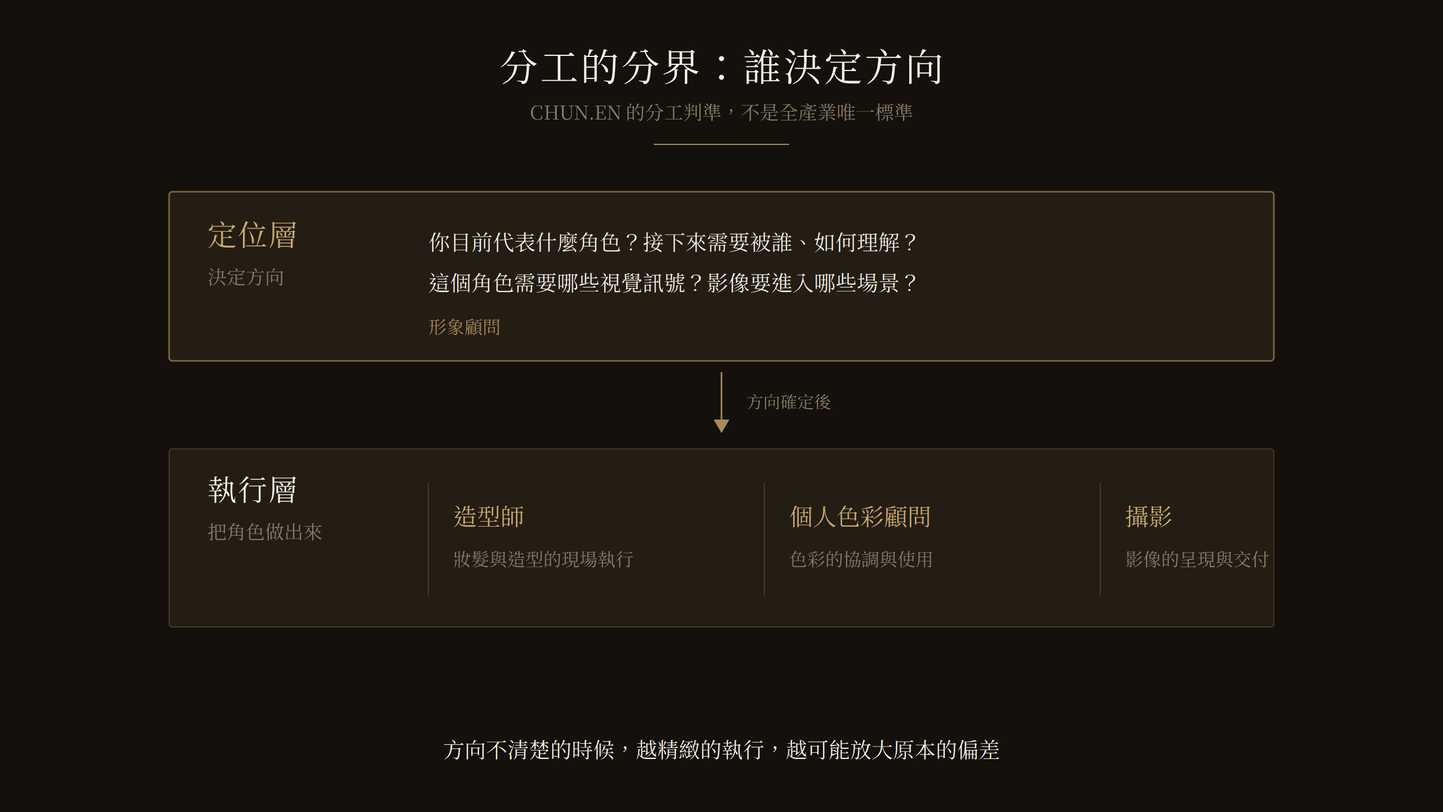
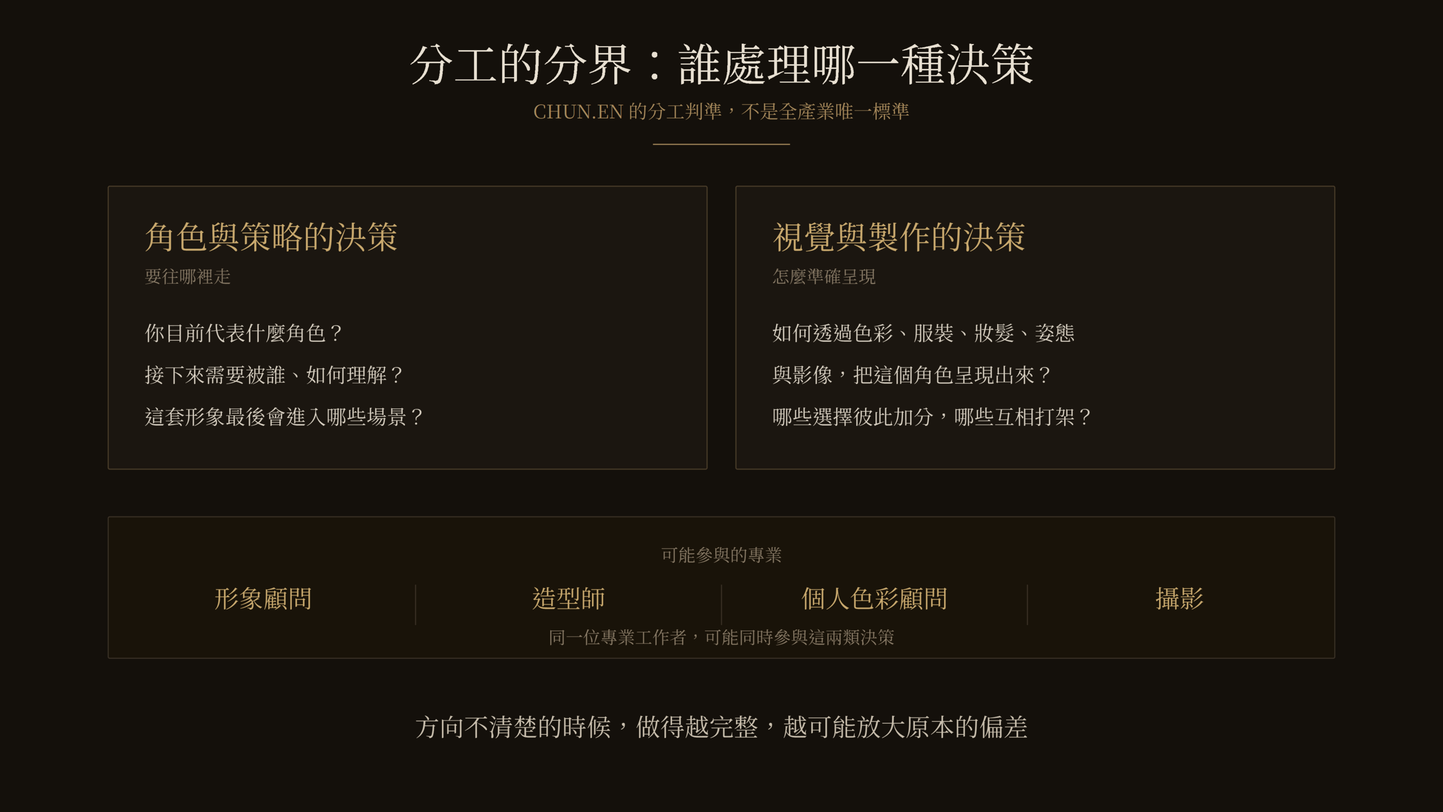
形象顧問三篇：依外部審閱校準職業定義與階級語言
三篇 8/3 上架前的定義一致性修正。採納外部審閱的必改項，但不採納會與
既有品牌定義衝突的建議。

what-is-an-image-consultant
- 主圖示意圖重畫：定位層→執行層的上下階層，改成「角色與策略的決策 /
  視覺與製作的決策」兩欄平權，並加註同一位專業工作者可能同時參與兩類。
  ALT 同步改寫（原句把造型師、色彩顧問與攝影一律寫成執行者）
- 造型師段落：保留台灣定義（職稱多半指向妝髮造型），改掉「把已經決定好
  的方向做出來」的降階語氣
- 分工判準段去掉定位層／執行層的階級framing
- FAQ 前三題改寫：第一題不再以「顧問處理方向、造型師處理執行」開場，
  第二題標明是 CHUN.EN 框架
- 收尾改成問讀者要解決哪一種問題，不再問「要找執行的人還是決定方向的人」

how-to-choose-image-consultant
- 「賣的是顧問還是攝影」全數改成服務重心與交付範圍（本文重點、內文、FAQ）
- 去掉「更上游」「單純攝影」「拍攝執行」
- 第二題補上「意見不一致時由誰統整」
- 第三題把應用建議的判準放回客戶需求
- 收尾「第一步是定位」改成「先釐清問題」
- title/og/twitter 補「該」字，與 H1 一致

image-consultant-pricing
- 比較報價從四件事改五件事，新增「額外費用」（服裝、交通、場地、超時、
  第三方支出是否另計）
- 品牌句去掉結果保證語氣（替你省下 → 協助你減少試錯、整理決策）
- FAQ「便宜」改「預算較低」；「顧問時間只佔一小部分」改成「實際諮詢或
  執行時間只是整個專案的一部分」
- 「接下來三年的角色」改「接下來一段職涯的角色」

三篇署名改為「創辦人暨品牌主理人・形象顧問」（原為妝髮造型師，與主題
不符）；維持全站雙專業署名制，不做全站統一。

image-consultant-vs-stylist（已公開）加一段限定：三段式分工是 CHUN.EN
的服務順序不是產業通則。why-prices-differ 不改版，改由新文的錨文字說明
兩篇是不同切法（按價位帶 vs 按計價方式）。

不採納：造型師改寫為含服裝選品採購（那是西方 stylist 定義，與 B.room
妝髮造型設計的服務定義衝突）、移除入行 FAQ（樞紐頁分流想入行者是刻意
設計）、H1 去句號與 title 尾綴（全站慣例）、全站統一作者頭銜。

新增 tools/diagram-src/ 保存示意圖 SVG 原始檔，之後可直接改。

diff --git a/journal/what-is-an-image-consultant.html b/journal/what-is-an-image-consultant.html
@@ -5,21 +5,21 @@
   <meta name="viewport" content="width=device-width, initial-scale=1.0, viewport-fit=cover" />
   <meta name="robots" content="noindex" /><!-- 草稿：審核後移除此行＋掛列表頁＋入 sitemap -->
   <title>形象顧問是什麼？與造型師、形象管理師、個人色彩顧問的差別｜CHUN.EN 觀點</title>
-  <meta name="description" content="形象顧問、造型師、形象管理師與個人色彩顧問有什麼差別？從定位、色彩、服裝、妝髮與執行層次，理解不同專業的工作範圍與適合情境。" />
+  <meta name="description" content="形象顧問、造型師、形象管理師與個人色彩顧問有什麼差別？從角色方向、色彩、服裝妝髮到服務方法與交付內容，理解不同專業適合處理哪些問題。" />
   <meta name="theme-color" content="#14100B" />
   <link rel="icon" href="/favicon.ico" sizes="48x48" />
   <link rel="icon" href="/favicon-32.png" type="image/png" sizes="32x32" />
   <link rel="apple-touch-icon" href="/apple-touch-icon.png" />
   <link rel="canonical" href="https://chunen.tw/journal/what-is-an-image-consultant.html" />
   <meta property="og:title" content="形象顧問是什麼？與造型師、形象管理師、個人色彩顧問的差別" />
-  <meta property="og:description" content="四個名稱在市場上高度重疊。從工作重心看分工：誰決定方向，誰負責執行。" />
+  <meta property="og:description" content="四個名稱在市場上高度重疊。從工作重心看分工：誰處理哪一種決策，交付的又是什麼。" />
   <meta property="og:image" content="https://chunen.tw/assets/gallery/journal/what-is-an-image-consultant-diagram-1400.png" />
   <meta property="og:url" content="https://chunen.tw/journal/what-is-an-image-consultant.html" />
   <meta property="og:type" content="article" />
   <meta property="og:locale" content="zh_TW" />
   <meta name="twitter:card" content="summary_large_image" />
   <meta name="twitter:title" content="形象顧問是什麼？與造型師、形象管理師、個人色彩顧問的差別" />
-  <meta name="twitter:description" content="四個名稱高度重疊，分界在誰決定方向。" />
+  <meta name="twitter:description" content="四個名稱高度重疊，分界在誰處理哪一種決策。" />
   <meta name="twitter:image" content="https://chunen.tw/assets/gallery/journal/what-is-an-image-consultant-diagram-1400.png" />
   <link rel="preconnect" href="https://fonts.googleapis.com" />
   <link rel="preconnect" href="https://fonts.gstatic.com" crossorigin />
@@ -79,7 +79,7 @@
 
     <div class="wrap article-wrap">
       <div class="jcard-media rv" style="aspect-ratio: 16/9; overflow: hidden; margin-bottom: clamp(2.5rem, 6vh, 4rem);">
-        <img src="../assets/gallery/journal/what-is-an-image-consultant-diagram-1400.png" alt="定位層與執行層的分工：形象顧問決定方向，造型師、色彩顧問與攝影負責執行" style="width:100%;height:100%;object-fit:cover;" />
+        <img src="../assets/gallery/journal/what-is-an-image-consultant-diagram-1400.png" alt="形象服務的兩類決策：角色與策略決策、視覺與製作決策，以及形象顧問、造型師、個人色彩顧問與攝影的工作重點" style="width:100%;height:100%;object-fit:cover;" />
       </div>
 
       <div class="keypoints rv">
@@ -96,8 +96,8 @@
         <p>於是就出現這種狀況：你找了一位形象顧問，對方帶你整理衣櫥與採購；找了另一位，得到的是個人色彩與風格分析；找第三位，對方先問的卻是你的職業、客戶與下一階段。三個人都不一定做錯，只是他們用了相近的職稱，處理的卻是不同層次。</p>
         <p><strong>這些名稱目前沒有單一、通用的工作邊界。</strong>以下不是要替整個產業下定義，而是依照主要工作重心，整理一套比較容易理解的分工方式。</p>
 
-        <h2>造型師：<em>負責造型的執行</em></h2>
-        <p>造型師通常以一場活動、一次拍攝或一段公開行程為核心，處理的是妝髮與造型的現場執行，讓人物在特定情境裡成立。服裝的挑選與採購通常不在這個環節裡，工作核心是把已經決定好的方向做出來。</p>
+        <h2>造型師：<em>讓造型在現場成立</em></h2>
+        <p>造型師通常以一場活動、一次拍攝或一段公開行程為核心，處理妝髮與造型的現場呈現，讓人物在特定情境裡成立。在台灣，這個職稱多半指向妝髮造型；服裝的挑選與採購常屬於另一個環節，也有人一起承接。所以判斷服務範圍時，要確認對方負責的是造型建議、現場執行，還是連服裝規劃一起。</p>
 
         <h2>個人色彩顧問：<em>處理色彩的協調與使用</em></h2>
         <p>個人色彩分析協助你理解哪些色相、明度與彩度更能與膚色、五官及整體條件協調，主要回答的是「哪些顏色更適合你」。至於某個顏色在特定職業、品牌或場合裡該不該出現，還需要結合角色、受眾與情境判斷。色彩顧問先處理配不配，角色定位進一步處理此刻該不該。這個工具的能與不能，〈<a href="personal-color-analysis-limits.html">個人色彩診斷可信嗎</a>〉談得更完整。</p>
@@ -107,33 +107,33 @@
 
         <h2>形象顧問：在 CHUN.EN 的框架裡，<em>負責統整方向</em></h2>
         <p>不同形象顧問的工作範圍可能不同。在 CHUN.EN 的服務框架裡，形象顧問首先處理方向：你目前代表什麼角色、需要被誰看見、對方應該如何理解你、這個角色需要哪些視覺訊號、影像最後要進入哪些商業場景。</p>
-        <p>方向確定後，色彩、服裝、妝髮與影像才有一致的決策基準。顧問不一定親自執行每個環節，但要確保不同專業最後指向同一個角色。</p>
+        <p>方向確定後，色彩、服裝、妝髮與影像才有一致的決策基準。顧問不一定親自完成每個環節，也不會取代造型、色彩與攝影各自的專業判斷；他負責的是統整需求、協調不同專業，並確認最後的呈現指向同一個角色。</p>
 
         <h2>形象管理，<em>不只是一個職稱</em></h2>
         <p>形象管理可以理解成一個持續的過程：在不同角色、場合與公開接觸點中，讓一個人的外在呈現、溝通方式與專業位置保持一致。</p>
-        <p>造型師、個人色彩顧問與形象顧問都可能參與形象管理，只是處理的層次不同。所以比起先問哪一個職稱最厲害，更實際的問題是：你現在需要被處理的，是色彩、造型、執行，還是整體方向。</p>
+        <p>造型師、個人色彩顧問與形象顧問都可能參與形象管理，處理的問題不同。所以比起先問哪一個職稱最厲害，更實際的問題是：你現在需要被處理的，是色彩、造型、現場呈現，還是整體方向。</p>
 
-        <h2>CHUN.EN 的分工判準：<em>誰決定方向</em></h2>
-        <p>真正的分工不是誰比較厲害，是誰在回答哪一層問題。</p>
-        <p>定位層問的是：你目前代表什麼角色、接下來需要被誰如何理解。執行層問的是：如何透過色彩、服裝、妝髮、姿態與影像，把這個角色呈現出來。</p>
-        <p>執行技術可以非常高明。但如果方向仍然模糊，再完整的執行也可能只是把一個尚未釐清的目標呈現得更精緻。這一層的完整討論，在〈<a href="image-consultant-vs-stylist.html">形象顧問、造型師、攝影師差在哪</a>〉。</p>
-        <blockquote>方向不清楚的時候，越精緻的執行，越可能放大原本的偏差。</blockquote>
+        <h2>CHUN.EN 的分工判準：<em>誰處理哪一種決策</em></h2>
+        <p>真正的分工不是誰比較厲害，是誰負責哪一種決策。</p>
+        <p>角色與策略的決策處理的是：你目前代表什麼角色、接下來需要被誰如何理解、這套形象最後會進入哪些場景。視覺與製作的決策處理的是：如何透過色彩、服裝、妝髮、姿態與影像，把這個角色準確呈現出來。同一位專業工作者，可能同時參與這兩類決策。</p>
+        <p>所以重要的不是把人固定歸進哪一類，而是確認整個專案裡誰負責統整需求、誰提供各自領域的專業判斷，以及最後如何形成一致的結果。這三個角色在一次拍攝專案裡怎麼合作，〈<a href="image-consultant-vs-stylist.html">形象顧問、造型師、攝影師差在哪</a>〉寫的是 CHUN.EN 自己的服務順序，可以接著看。</p>
+        <blockquote>方向不清楚的時候，做得越完整，越可能放大原本的偏差。</blockquote>
 
         <h2>你現在<em>需要哪一種專業</em></h2>
         <p>明天有一場重要活動，需要妝髮與造型在現場完整呈現，找造型師。</p>
         <p>想了解哪些色彩與自身條件更協調，找個人色彩顧問。</p>
         <p>需要長期整理衣櫥、儀態與日常呈現，看形象管理類服務的實際範圍。</p>
-        <p>如果每次出場都要重新決定一次，或者服裝、妝髮與照片都完成了，成果卻仍然不像同一個角色，那要優先處理的是更上游的定位與統整。決定要找誰之後，〈<a href="how-to-choose-image-consultant.html">決定之前先問的五個問題</a>〉與〈<a href="image-consultant-pricing.html">形象顧問收費怎麼算</a>〉可以接著看。</p>
+        <p>如果每次出場都要重新決定一次，或者服裝、妝髮與照片都完成了，成果卻仍然不像同一個角色，那要優先處理的，是角色與方向的統整。決定要找誰之後，〈<a href="how-to-choose-image-consultant.html">決定之前先問的五個問題</a>〉與〈<a href="image-consultant-pricing.html">形象顧問收費怎麼算</a>〉可以接著看。</p>
 
         <h2>在決定要找誰之前，<em>先問自己一題</em></h2>
-        <p>你現在缺的，是把事情執行好的人，還是先替你決定方向的人？</p>
-        <p>問題不同，適合的專業就不同。</p>
+        <p>你現在要解決的，是一個明確的色彩、服裝或造型問題，還是一個需要重新統整的角色與方向問題？</p>
+        <p>問題不同，需要的專業與合作方式就不同。</p>
 
         <h2>常見<em>問題</em></h2>
         <div class="faq">
-          <details><summary>形象顧問是什麼？跟造型師差在哪？<span class="mark">+</span></summary><div class="a">形象顧問處理方向，造型師處理執行。造型師通常以一場活動或一次拍攝為核心，負責妝髮與造型的現場執行；形象顧問處理更上游的角色定位，釐清你要被誰看見、如何被理解，以及色彩、服裝、妝髮與影像該共同傳達什麼訊號。要注意的是這些職稱在市場上高度重疊，不能只看名稱判斷服務範圍，還是要看對方用什麼方法、交付什麼。</div></details>
-          <details><summary>形象管理跟形象顧問是同一件事嗎？<span class="mark">+</span></summary><div class="a">形象管理是一個持續的過程，指的是在不同角色、場合與公開接觸點中，讓外在呈現、溝通方式與專業位置保持一致。造型師、個人色彩顧問與形象顧問都可能參與形象管理，只是處理的層次不同。形象顧問是其中負責統整方向的角色，不等於形象管理本身。</div></details>
-          <details><summary>個人色彩顧問跟形象顧問要選哪一個？<span class="mark">+</span></summary><div class="a">看你要解決的問題。想知道哪些顏色與自身條件更協調，找個人色彩顧問；如果每次出場都要重新決定一次，或者服裝、妝髮與照片都完成了成果卻仍然不像同一個角色，那要處理的是更上游的定位與統整。色彩回答配不配，定位回答此刻該不該。</div></details>
+          <details><summary>形象顧問是什麼？跟造型師差在哪？<span class="mark">+</span></summary><div class="a">兩者的工作範圍可能重疊，差別通常在主要任務與服務範圍。造型師多半以一場活動或一次拍攝為核心，透過妝髮與造型讓人物在現場成立；形象顧問則從角色、受眾、職業情境與長期使用開始，協助統整色彩、服裝、妝髮與影像該共同傳達什麼訊號。這些職稱在市場上高度重疊，不能只看名稱判斷服務範圍，還是要看對方實際處理哪些問題、用什麼方法、最後交付什麼。</div></details>
+          <details><summary>形象管理跟形象顧問是同一件事嗎？<span class="mark">+</span></summary><div class="a">形象管理是一個持續的過程，指的是在不同角色、場合與公開接觸點中，讓外在呈現、溝通方式與專業位置保持一致。造型師、個人色彩顧問、形象顧問與其他專業都可能參與其中。在 CHUN.EN 的框架裡，形象顧問主要負責角色方向與跨專業統整；但市場上職稱的使用高度重疊，仍要回到個別服務內容判斷。</div></details>
+          <details><summary>個人色彩顧問跟形象顧問要選哪一個？<span class="mark">+</span></summary><div class="a">看你要解決的問題。想知道哪些顏色與自身條件更協調，找個人色彩顧問；如果每次出場都要重新決定一次，或者服裝、妝髮與照片都完成了成果卻仍然不像同一個角色，那要處理的是角色與方向的統整。兩者也可以搭配使用：色彩回答配不配，定位回答此刻該不該。</div></details>
           <details><summary>我想入行做形象顧問，該從哪裡開始？<span class="mark">+</span></summary><div class="a">這份工作的難處通常不在審美，而在能不能問對問題。看得懂衣服的人很多，聽得出一個人真正想被怎麼看待的人比較少，而後者才是這份工作的核心能力。市場上的課程與認證體系不少，但職稱不等於服務深度，實際能處理到哪一層才是關鍵。</div></details>
         </div>
 
@@ -146,7 +146,7 @@
         </picture>
         <div>
           <p class="ac-name"><a href="../author/zoey-wu.html">吳惇恩<em>Zoey Wu</em></a></p>
-          <p class="ac-role">CHUN.EN 創辦人暨品牌主理人・妝髮造型師</p>
+          <p class="ac-role">CHUN.EN 創辦人暨品牌主理人・形象顧問</p>
           <p class="ac-bio">服裝設計師出身，歷經台灣、上海與廣州共 10 年設計工作，其後投入造型領域 14 年。以商業視覺定位為核心，統整服裝、妝髮與影像，協助專業工作者與企業領導者，建立一致、清楚且有系統的專業形象。</p>
         </div>
       </div>
@@ -184,7 +184,7 @@
     "@context": "https://schema.org",
     "@type": "Article",
     "headline": "形象顧問是什麼？與造型師、形象管理師、個人色彩顧問的差別",
-    "description": "形象顧問、造型師、形象管理師與個人色彩顧問的工作重心差異，以及形象管理作為持續過程的定義；分界在定位層與執行層。",
+    "description": "形象顧問、造型師、形象管理師與個人色彩顧問的工作重心差異，以及形象管理作為持續過程的定義；分界在誰處理哪一種決策。",
     "image": "https://chunen.tw/assets/gallery/journal/what-is-an-image-consultant-diagram-1400.png",
     "author": {"@type": "Person", "@id": "https://chunen.tw/author/zoey-wu.html#zoey", "name": "吳惇恩", "alternateName": "Zoey Wu", "jobTitle": "Founder & Brand Director", "image": "https://chunen.tw/assets/images/zoey-author-640.jpg", "url": "https://chunen.tw/author/zoey-wu.html"},
     "publisher": {"@type": "Organization", "name": "CHUN.EN 形象美學", "logo": {"@type": "ImageObject", "url": "https://chunen.tw/icon-512.png"}},
@@ -201,9 +201,9 @@
     "@context": "https://schema.org",
     "@type": "FAQPage",
     "mainEntity": [
-      {"@type": "Question", "name": "形象顧問是什麼？跟造型師差在哪？", "acceptedAnswer": {"@type": "Answer", "text": "形象顧問處理方向，造型師處理執行。造型師通常以一場活動或一次拍攝為核心，負責妝髮與造型的現場執行；形象顧問處理更上游的角色定位，釐清你要被誰看見、如何被理解，以及色彩、服裝、妝髮與影像該共同傳達什麼訊號。要注意的是這些職稱在市場上高度重疊，不能只看名稱判斷服務範圍，還是要看對方用什麼方法、交付什麼。"}},
-      {"@type": "Question", "name": "形象管理跟形象顧問是同一件事嗎？", "acceptedAnswer": {"@type": "Answer", "text": "形象管理是一個持續的過程，指的是在不同角色、場合與公開接觸點中，讓外在呈現、溝通方式與專業位置保持一致。造型師、個人色彩顧問與形象顧問都可能參與形象管理，只是處理的層次不同。形象顧問是其中負責統整方向的角色，不等於形象管理本身。"}},
-      {"@type": "Question", "name": "個人色彩顧問跟形象顧問要選哪一個？", "acceptedAnswer": {"@type": "Answer", "text": "看你要解決的問題。想知道哪些顏色與自身條件更協調，找個人色彩顧問；如果每次出場都要重新決定一次，或者服裝、妝髮與照片都完成了成果卻仍然不像同一個角色，那要處理的是更上游的定位與統整。色彩回答配不配，定位回答此刻該不該。"}},
+      {"@type": "Question", "name": "形象顧問是什麼？跟造型師差在哪？", "acceptedAnswer": {"@type": "Answer", "text": "兩者的工作範圍可能重疊，差別通常在主要任務與服務範圍。造型師多半以一場活動或一次拍攝為核心，透過妝髮與造型讓人物在現場成立；形象顧問則從角色、受眾、職業情境與長期使用開始，協助統整色彩、服裝、妝髮與影像該共同傳達什麼訊號。這些職稱在市場上高度重疊，不能只看名稱判斷服務範圍，還是要看對方實際處理哪些問題、用什麼方法、最後交付什麼。"}},
+      {"@type": "Question", "name": "形象管理跟形象顧問是同一件事嗎？", "acceptedAnswer": {"@type": "Answer", "text": "形象管理是一個持續的過程，指的是在不同角色、場合與公開接觸點中，讓外在呈現、溝通方式與專業位置保持一致。造型師、個人色彩顧問、形象顧問與其他專業都可能參與其中。在 CHUN.EN 的框架裡，形象顧問主要負責角色方向與跨專業統整；但市場上職稱的使用高度重疊，仍要回到個別服務內容判斷。"}},
+      {"@type": "Question", "name": "個人色彩顧問跟形象顧問要選哪一個？", "acceptedAnswer": {"@type": "Answer", "text": "看你要解決的問題。想知道哪些顏色與自身條件更協調，找個人色彩顧問；如果每次出場都要重新決定一次，或者服裝、妝髮與照片都完成了成果卻仍然不像同一個角色，那要處理的是角色與方向的統整。兩者也可以搭配使用：色彩回答配不配，定位回答此刻該不該。"}},
       {"@type": "Question", "name": "我想入行做形象顧問，該從哪裡開始？", "acceptedAnswer": {"@type": "Answer", "text": "這份工作的難處通常不在審美，而在能不能問對問題。看得懂衣服的人很多，聽得出一個人真正想被怎麼看待的人比較少，而後者才是這份工作的核心能力。市場上的課程與認證體系不少，但職稱不等於服務深度，實際能處理到哪一層才是關鍵。"}}
     ]
   }

diff --git a/journal/how-to-choose-image-consultant.html b/journal/how-to-choose-image-consultant.html
@@ -4,21 +4,21 @@
   <meta charset="UTF-8" />
   <meta name="viewport" content="width=device-width, initial-scale=1.0, viewport-fit=cover" />
   <meta name="robots" content="noindex" /><!-- 草稿：審核後移除此行＋掛列表頁＋入 sitemap -->
-  <title>形象顧問推薦看完了，還是不知道找誰？決定之前先問這五個問題｜CHUN.EN 觀點</title>
+  <title>形象顧問推薦看完了，還是不知道該找誰？決定之前先問這五個問題｜CHUN.EN 觀點</title>
   <meta name="description" content="搜尋形象顧問推薦，卻不知道該找誰？從諮詢時先問什麼、服務分工、交付後的使用邏輯、案例到定位，整理決定之前該問的五個問題，幫助你找到真正適合的形象顧問。" />
   <meta name="theme-color" content="#14100B" />
   <link rel="icon" href="/favicon.ico" sizes="48x48" />
   <link rel="icon" href="/favicon-32.png" type="image/png" sizes="32x32" />
   <link rel="apple-touch-icon" href="/apple-touch-icon.png" />
   <link rel="canonical" href="https://chunen.tw/journal/how-to-choose-image-consultant.html" />
-  <meta property="og:title" content="形象顧問推薦看完了，還是不知道找誰？決定之前先問這五個問題" />
+  <meta property="og:title" content="形象顧問推薦看完了，還是不知道該找誰？決定之前先問這五個問題" />
   <meta property="og:description" content="推薦名單幫你找到候選人，問題才幫你判斷誰適合你。五個決定之前該問的問題。" />
   <meta property="og:image" content="https://chunen.tw/assets/gallery/journal/how-to-choose-image-consultant-diagram-1400.png" />
   <meta property="og:url" content="https://chunen.tw/journal/how-to-choose-image-consultant.html" />
   <meta property="og:type" content="article" />
   <meta property="og:locale" content="zh_TW" />
   <meta name="twitter:card" content="summary_large_image" />
-  <meta name="twitter:title" content="形象顧問推薦看完了，還是不知道找誰？決定之前先問這五個問題" />
+  <meta name="twitter:title" content="形象顧問推薦看完了，還是不知道該找誰？決定之前先問這五個問題" />
   <meta name="twitter:description" content="推薦名單找到候選人，五個問題判斷誰適合你。" />
   <meta name="twitter:image" content="https://chunen.tw/assets/gallery/journal/how-to-choose-image-consultant-diagram-1400.png" />
   <link rel="preconnect" href="https://fonts.googleapis.com" />
@@ -86,7 +86,7 @@
         <p class="kp-t">In This Article · 本文重點</p>
         <ul>
           <li>形象顧問推薦怎麼看</li>
-          <li>怎麼判斷對方賣的是顧問還是攝影</li>
+          <li>怎麼判斷服務重心與交付範圍</li>
           <li>看案例的時候該看什麼</li>
         </ul>
       </div>
@@ -97,13 +97,14 @@
         <p>因為這件事很難只用名次比較。同樣使用這個職稱，有人以服裝與色彩為主，有人從角色定位開始，也有人提供的是造型與攝影的整合。<strong>推薦名單可以替你找到候選人，卻不能替你判斷哪一種服務適合你。</strong>名單解決不了的問題，得靠問題來判斷。</p>
 
         <h2>第一，諮詢時<em>形象顧問先問了什麼</em></h2>
-        <p>有人先問你喜歡什麼風格，有人先問你的職業、受眾、使用場合與下一階段。問題沒有標準順序，但對方先了解什麼，通常會透露他準備處理的是外在選擇，還是更上游的角色問題。</p>
+        <p>有人先問你喜歡什麼風格，有人先問你的職業、受眾、使用場合與下一階段。問題沒有標準順序，但對方先了解什麼，通常會透露他準備處理的是眼前的外在選擇，還是背後的角色與方向問題。</p>
 
         <h2>第二，服務範圍與<em>責任分工怎麼切</em></h2>
-        <p>服裝、採購、妝髮、攝影、場地與現場執行，哪些由顧問負責，哪些由合作團隊執行，哪些要你自己準備。同樣寫著「形象規劃」，有人只給方向，有人會陪同落地，也有人統整完整團隊。先確認責任範圍，才知道報價真正包含什麼。</p>
+        <p>服裝、採購、妝髮、攝影、場地與現場執行，哪些由顧問負責，哪些由合作團隊執行，哪些要你自己準備。也要確認不同專業的意見不一致時，由誰負責統整、由誰做最後的方向決定。</p>
+        <p>同樣寫著「形象規劃」，有人只給方向，有人會陪同落地，也有人統整完整團隊。先確認責任範圍，才知道報價真正包含什麼。</p>
 
         <h2>第三，交付之後<em>有沒有使用邏輯</em></h2>
-        <p>一組照片完成後，哪張適合官網、哪張提供媒體、哪張用於 LinkedIn、簡報或社群頭像，有沒有清楚的建議。照片交付不等於影像開始發揮作用，沒有人協助整理用途，再完整的素材也可能停在雲端硬碟裡。</p>
+        <p>一組照片完成後，哪張適合官網、哪張提供媒體、哪張用於 LinkedIn、簡報或社群頭像，有沒有清楚的建議。如果你的需求涵蓋官網、媒體、LinkedIn、簡報與社群，就要確認交付之後有沒有使用邏輯。照片交付不等於影像開始發揮作用，缺少用途整理時，再完整的素材也可能停在雲端硬碟裡。</p>
 
         <h2>第四，案例解決的問題<em>跟我像不像</em></h2>
         <p>不要只看案例是不是同一個職業。兩位律師的市場位置與客群可能完全不同，醫師與理專反而常面對相似的專業可信度問題。更值得看的是：對方原本遇到什麼問題、顧問怎麼判斷、最後用了什麼策略、成果放進哪些場景。好的案例不只展示完成照，也讓你看懂從問題到決策的過程。</p>
@@ -113,18 +114,18 @@
 
         <h2>一個反過來的<em>判斷基準</em></h2>
         <p>比起他怎麼回答，更該看的是：他在推薦方案之前，先問了你什麼。</p>
-        <p>如果對方先理解你的職業、受眾、使用情境與目前的卡點，再決定服務範圍，通常表示他處理的不只是執行，也包含前期判斷。如果需求還沒被釐清，就直接以棚景、服裝套數、精修張數與價格分類，那服務重心可能更偏向拍攝交付。</p>
-        <p>兩種服務都可以買。真正重要的是，不要把拍攝執行當成完整定位，也不要用單純攝影的交付範圍，去期待顧問型服務的結果。三種專業各自處理哪一層，〈<a href="what-is-an-image-consultant.html">形象顧問是什麼？與造型師、形象管理師、個人色彩顧問的差別</a>〉有完整的拆解。</p>
+        <p>如果對方先理解你的職業、受眾、使用情境與目前的卡點，再決定服務範圍，通常代表前期的顧問規劃占比較高。如果服務主要以棚景、服裝套數、拍攝時間、精修張數與價格分類，重心就比較接近影像製作與檔案交付。</p>
+        <p>兩種服務都可以買，也可能出現在同一個方案裡。真正重要的是先確認自己買到的是哪一種範圍，不要用其中一種服務的交付內容，去期待另一種服務才承諾的成果。這幾種專業各自處理哪些問題，〈<a href="what-is-an-image-consultant.html">形象顧問是什麼？與造型師、形象管理師、個人色彩顧問的差別</a>〉有完整的拆解。</p>
         <blockquote>推薦名單幫你找到候選人，問題才幫你判斷誰適合你。</blockquote>
 
         <h2>問完之後，<em>你可能會發現一件事</em></h2>
-        <p>把這五題記下來。問完三家之後，你可能會發現，真正難以決定的不是他們，而是自己還沒完全想清楚要解決什麼。</p>
-        <p>那不是壞事。它通常代表，你需要的第一步是定位，而不是急著預約。至於不同服務的價格為什麼落差這麼大，〈<a href="image-consultant-pricing.html">形象顧問收費怎麼算</a>〉把三種計價邏輯攤開來談。</p>
+        <p>把這五題記下來。問完幾位候選人之後，你可能會發現，真正難以決定的不是他們，而是自己還沒完全想清楚要解決什麼。</p>
+        <p>那不是壞事。它通常代表，你需要的第一步是先釐清問題，而不是急著預約任何一種服務。至於不同服務的價格為什麼落差這麼大，〈<a href="image-consultant-pricing.html">形象顧問收費怎麼算</a>〉把三種計價邏輯攤開來談。</p>
 
         <h2>常見<em>問題</em></h2>
         <div class="faq">
           <details><summary>形象顧問推薦怎麼看？<span class="mark">+</span></summary><div class="a">推薦名單只能幫你找到候選人，選擇仍要看服務適不適合你的問題。決定之前先問五件事：諮詢時對方先問了什麼、服務範圍與責任怎麼分工、交付後有沒有使用建議、案例解決的問題與你像不像、定位最後會形成哪些決策依據。另外觀察他是否在理解你的職業、受眾與用途之後才推薦方案。</div></details>
-          <details><summary>怎麼判斷對方賣的是顧問還是攝影？<span class="mark">+</span></summary><div class="a">看他在推薦方案之前先問了什麼。先理解你的職業、受眾、使用情境與目前卡點，再決定服務範圍，表示處理的不只是執行；需求還沒釐清就直接以棚景、服裝套數、精修張數與價格分類，服務重心通常偏向拍攝交付。兩種都可以買，重點是不要用其中一種的範圍去期待另一種的結果。</div></details>
+          <details><summary>怎麼判斷服務偏向顧問規劃，還是影像製作？<span class="mark">+</span></summary><div class="a">看他在推薦方案之前先問了什麼。先理解你的職業、受眾、使用情境與目前卡點，再決定服務範圍，通常代表前期的顧問規劃占比較高；需求還沒釐清就直接以棚景、服裝套數、拍攝時間、精修張數與價格分類，重心就比較接近影像製作與檔案交付。兩者沒有高下，也可能同時存在，重點是確認自己買到的是哪一種範圍，不要用其中一種的交付去期待另一種的成果。</div></details>
           <details><summary>看案例的時候該看什麼？<span class="mark">+</span></summary><div class="a">不要只看是不是同一個職業。兩位律師的市場位置與客群可能完全不同，醫師與理專反而常面對相似的專業可信度問題。更值得看的是對方原本遇到什麼問題、顧問怎麼判斷、用了什麼策略，以及成果被放進哪些場景。</div></details>
           <details><summary>定位要談多久才算足夠？<span class="mark">+</span></summary><div class="a">時間長短不是判準，談完之後有沒有留下東西才是。足夠的定位會形成可以支持後續決策的依據，例如角色關鍵字、受眾、服裝方向、妝髮原則與影像用途。如果結束後仍然只能靠感覺挑衣服與照片，那討論還沒轉化成策略。</div></details>
         </div>
@@ -138,7 +139,7 @@
         </picture>
         <div>
           <p class="ac-name"><a href="../author/zoey-wu.html">吳惇恩<em>Zoey Wu</em></a></p>
-          <p class="ac-role">CHUN.EN 創辦人暨品牌主理人・妝髮造型師</p>
+          <p class="ac-role">CHUN.EN 創辦人暨品牌主理人・形象顧問</p>
           <p class="ac-bio">服裝設計師出身，歷經台灣、上海與廣州共 10 年設計工作，其後投入造型領域 14 年。以商業視覺定位為核心，統整服裝、妝髮與影像，協助專業工作者與企業領導者，建立一致、清楚且有系統的專業形象。</p>
         </div>
       </div>
@@ -194,7 +195,7 @@
     "@type": "FAQPage",
     "mainEntity": [
       {"@type": "Question", "name": "形象顧問推薦怎麼看？", "acceptedAnswer": {"@type": "Answer", "text": "推薦名單只能幫你找到候選人，選擇仍要看服務適不適合你的問題。決定之前先問五件事：諮詢時對方先問了什麼、服務範圍與責任怎麼分工、交付後有沒有使用建議、案例解決的問題與你像不像、定位最後會形成哪些決策依據。另外觀察他是否在理解你的職業、受眾與用途之後才推薦方案。"}},
-      {"@type": "Question", "name": "怎麼判斷對方賣的是顧問還是攝影？", "acceptedAnswer": {"@type": "Answer", "text": "看他在推薦方案之前先問了什麼。先理解你的職業、受眾、使用情境與目前卡點，再決定服務範圍，表示處理的不只是執行；需求還沒釐清就直接以棚景、服裝套數、精修張數與價格分類，服務重心通常偏向拍攝交付。兩種都可以買，重點是不要用其中一種的範圍去期待另一種的結果。"}},
+      {"@type": "Question", "name": "怎麼判斷服務偏向顧問規劃，還是影像製作？", "acceptedAnswer": {"@type": "Answer", "text": "看他在推薦方案之前先問了什麼。先理解你的職業、受眾、使用情境與目前卡點，再決定服務範圍，通常代表前期的顧問規劃占比較高；需求還沒釐清就直接以棚景、服裝套數、拍攝時間、精修張數與價格分類，重心就比較接近影像製作與檔案交付。兩者沒有高下，也可能同時存在，重點是確認自己買到的是哪一種範圍，不要用其中一種的交付去期待另一種的成果。"}},
       {"@type": "Question", "name": "看案例的時候該看什麼？", "acceptedAnswer": {"@type": "Answer", "text": "不要只看是不是同一個職業。兩位律師的市場位置與客群可能完全不同，醫師與理專反而常面對相似的專業可信度問題。更值得看的是對方原本遇到什麼問題、顧問怎麼判斷、用了什麼策略，以及成果被放進哪些場景。"}},
       {"@type": "Question", "name": "定位要談多久才算足夠？", "acceptedAnswer": {"@type": "Answer", "text": "時間長短不是判準，談完之後有沒有留下東西才是。足夠的定位會形成可以支持後續決策的依據，例如角色關鍵字、受眾、服裝方向、妝髮原則與影像用途。如果結束後仍然只能靠感覺挑衣服與照片，那討論還沒轉化成策略。"}}
     ]

diff --git a/journal/image-consultant-pricing.html b/journal/image-consultant-pricing.html
@@ -5,21 +5,21 @@
   <meta name="viewport" content="width=device-width, initial-scale=1.0, viewport-fit=cover" />
   <meta name="robots" content="noindex" /><!-- 草稿：審核後移除此行＋掛列表頁＋入 sitemap -->
   <title>形象顧問收費怎麼算？三種計價邏輯與服務差異｜CHUN.EN 觀點</title>
-  <meta name="description" content="形象顧問收費為什麼差距這麼大？從按時、按專案到整合型服務，整理三種常見計價邏輯、報價包含項目與適合對象，幫助你判斷真正需要的是哪一種服務。" />
+  <meta name="description" content="形象顧問收費為什麼差距這麼大？從按時、按專案到整合型服務，整理三種常見計價邏輯、報價包含項目、額外費用與適合對象，幫助你看懂真正購買的是什麼。" />
   <meta name="theme-color" content="#14100B" />
   <link rel="icon" href="/favicon.ico" sizes="48x48" />
   <link rel="icon" href="/favicon-32.png" type="image/png" sizes="32x32" />
   <link rel="apple-touch-icon" href="/apple-touch-icon.png" />
   <link rel="canonical" href="https://chunen.tw/journal/image-consultant-pricing.html" />
   <meta property="og:title" content="形象顧問收費怎麼算？三種計價邏輯與服務差異" />
-  <meta property="og:description" content="按時、按專案、整合型，三種計價邏輯賣的是三種東西。比較報價前先確認四件事。" />
+  <meta property="og:description" content="按時、按專案、整合型，三種計價邏輯賣的是三種東西。比較報價前先確認五件事。" />
   <meta property="og:image" content="https://chunen.tw/assets/gallery/journal/image-consultant-pricing-diagram-1400.png" />
   <meta property="og:url" content="https://chunen.tw/journal/image-consultant-pricing.html" />
   <meta property="og:type" content="article" />
   <meta property="og:locale" content="zh_TW" />
   <meta name="twitter:card" content="summary_large_image" />
   <meta name="twitter:title" content="形象顧問收費怎麼算？三種計價邏輯與服務差異" />
-  <meta name="twitter:description" content="三種計價邏輯，比較報價前先確認四件事。" />
+  <meta name="twitter:description" content="三種計價邏輯，比較報價前先確認五件事。" />
   <meta name="twitter:image" content="https://chunen.tw/assets/gallery/journal/image-consultant-pricing-diagram-1400.png" />
   <link rel="preconnect" href="https://fonts.googleapis.com" />
   <link rel="preconnect" href="https://fonts.gstatic.com" crossorigin />
@@ -86,8 +86,8 @@
         <p class="kp-t">In This Article · 本文重點</p>
         <ul>
           <li>形象顧問收費怎麼算</li>
-          <li>便宜的方案就不能用嗎</li>
-          <li>為什麼顧問的時間只佔整個專案一小部分</li>
+          <li>不同預算與服務範圍適合哪些需求</li>
+          <li>比較報價時該確認哪些工作與交付</li>
         </ul>
       </div>
 
@@ -106,14 +106,15 @@
         <h2>為什麼有些報價<em>看起來特別高</em></h2>
         <p>因為顧問實際出現在你面前的時間，往往只是整個專案的一部分。</p>
         <p>執行之前要先理解你的職業角色、主要受眾、下一階段，以及影像會用在哪些場景。這些釐清了，服裝輪廓、妝髮強度與場景選擇才有依據。執行之後還有選片、整理，以及不同版位的使用建議。</p>
-        <blockquote>你付的不只是顧問在場的時間，還有他替你省下的試錯。</blockquote>
+        <blockquote>你付的不只是顧問在場的時間，也包括他協助你減少試錯、整理決策的能力。</blockquote>
 
-        <h2>比較報價時，<em>先確認這四件事</em></h2>
+        <h2>比較報價時，<em>先確認這五件事</em></h2>
         <p><strong>前期定位</strong>：是否包含訪談、需求分析與影像用途確認，還是只簡短問了喜歡的風格。</p>
         <p><strong>服務範圍與分工</strong>：服裝、採購、妝髮、攝影、現場執行，哪些由顧問負責、哪些由合作團隊執行、哪些要你自備。</p>
         <p><strong>交付內容</strong>：幾套造型、幾張精修、哪些檔案規格，是否包含不同平台需要的裁切版本。</p>
+        <p><strong>額外費用</strong>：服裝商品、交通、場地、攝影、妝髮、超時、加選照片與第三方支出，是已經包含在方案裡，還是會另外報價。</p>
         <p><strong>交付後的應用</strong>：完成之後，有沒有人協助判斷哪些適合官網、社群、簡報與媒體。</p>
-        <p>把這四項攤開比較，原本看似差距很大的報價，通常就變得容易理解。同樣的邏輯也適用在拍攝本身的價差，那部分我們在〈<a href="why-prices-differ.html">價格差十倍的形象照，到底差在哪</a>〉談得更完整。</p>
+        <p>把這五項攤開比較，原本看似差距很大的報價，通常就變得容易理解。同樣的邏輯也適用在拍攝本身的價差，只是切法不同：這篇按計價方式拆，〈<a href="why-prices-differ.html">價格差十倍的形象照，按價位帶拆給你看</a>〉按價位帶拆，可以對照著讀。</p>
 
         <h2>你該<em>選哪一種</em></h2>
         <p>下週要見一位重要客戶，對衣櫥裡的搭配沒有把握，按時計費的單次諮詢可能就夠。</p>
@@ -122,14 +123,14 @@
         <p>不是服務越完整越好，而是問題越長期，越需要完整的系統。如果還不確定自己需要的是哪一種專業，〈<a href="what-is-an-image-consultant.html">形象顧問是什麼？與造型師、形象管理師、個人色彩顧問的差別</a>〉先把分工講清楚；價格之外怎麼判斷一位顧問適不適合你，則在〈<a href="how-to-choose-image-consultant.html">決定之前先問的五個問題</a>〉。</p>
 
         <h2>在問價格之前，<em>先問自己一題</em></h2>
-        <p>這次要解決的，是眼前的一場會議，還是接下來三年的角色？</p>
+        <p>這次要解決的，是眼前的一個場合，還是接下來一段職涯的角色？</p>
         <p>答案不同，合理的投入方式也會不同。而這一題，只有你自己答得出來。</p>
 
         <h2>常見<em>問題</em></h2>
         <div class="faq">
           <details><summary>形象顧問收費怎麼算？<span class="mark">+</span></summary><div class="a">從交付方式來看大致分三類。按時計費以服務時數為基礎，適合陪同購物、衣櫥健檢或單次諮詢；按專案計費以明確範圍與交付成果為基礎，例如一組形象照或一份服裝企劃；整合型服務把定位、服裝、妝髮、影像與應用規劃放在同一套流程裡，適合需要長期使用形象資產的人。實際方案常混合不同計價方式，比較報價時除了總價，也要確認前期定位、服務分工、交付內容與後續應用是否包含。</div></details>
-          <details><summary>便宜的方案就不能用嗎？<span class="mark">+</span></summary><div class="a">看用途。問題明確、範圍單純，例如下週要見一位客戶、需要一次搭配建議，按時計費的單次諮詢就是正確答案。當需求延伸到跨平台、跨場合、要長期沿用時，單次服務的範圍通常就不夠了。</div></details>
-          <details><summary>為什麼顧問的時間只佔整個專案一小部分？<span class="mark">+</span></summary><div class="a">因為執行之前要先理解你的職業角色、受眾、下一階段與影像用途，這些釐清後服裝輪廓、妝髮強度與場景選擇才有依據；執行之後還有選片、整理與不同版位的使用建議。顧問在你面前的那段時間，只是整條流程裡的一段。</div></details>
+          <details><summary>預算較低的方案也能用嗎？<span class="mark">+</span></summary><div class="a">可以，重點是用途。問題明確、範圍單純，例如下週要見一位客戶、需要一次搭配建議，按時計費的單次諮詢就是正確答案。當需求延伸到跨平台、跨場合、要長期沿用時，就要確認單次服務的範圍夠不夠支撐後續。</div></details>
+          <details><summary>為什麼實際諮詢或執行的時間，只是整個專案的一部分？<span class="mark">+</span></summary><div class="a">因為你實際參與的諮詢、採購或拍攝，只是完整流程的一部分。執行之前要先理解你的職業角色、受眾、下一階段與影像用途，這些釐清後，服裝輪廓、妝髮強度與場景選擇才有依據；執行之後還有選片、整理與不同版位的使用建議。比較報價時，不只要看面對面服務幾個小時，也要確認前後包含哪些準備、判斷與交付。</div></details>
           <details><summary>怎麼判斷自己該花多少？<span class="mark">+</span></summary><div class="a">回到這次要解決的是眼前的場合，還是接下來的角色。放履歷或應付單一場合的需求，不必付整合型服務的價格；正在建立長期公開角色時，這筆成本會分攤到之後每一次曝光上。</div></details>
         </div>
 
@@ -142,7 +143,7 @@
         </picture>
         <div>
           <p class="ac-name"><a href="../author/zoey-wu.html">吳惇恩<em>Zoey Wu</em></a></p>
-          <p class="ac-role">CHUN.EN 創辦人暨品牌主理人・妝髮造型師</p>
+          <p class="ac-role">CHUN.EN 創辦人暨品牌主理人・形象顧問</p>
           <p class="ac-bio">服裝設計師出身，歷經台灣、上海與廣州共 10 年設計工作，其後投入造型領域 14 年。以商業視覺定位為核心，統整服裝、妝髮與影像，協助專業工作者與企業領導者，建立一致、清楚且有系統的專業形象。</p>
         </div>
       </div>
@@ -198,8 +199,8 @@
     "@type": "FAQPage",
     "mainEntity": [
       {"@type": "Question", "name": "形象顧問收費怎麼算？", "acceptedAnswer": {"@type": "Answer", "text": "從交付方式來看大致分三類。按時計費以服務時數為基礎，適合陪同購物、衣櫥健檢或單次諮詢；按專案計費以明確範圍與交付成果為基礎，例如一組形象照或一份服裝企劃；整合型服務把定位、服裝、妝髮、影像與應用規劃放在同一套流程裡，適合需要長期使用形象資產的人。實際方案常混合不同計價方式，比較報價時除了總價，也要確認前期定位、服務分工、交付內容與後續應用是否包含。"}},
-      {"@type": "Question", "name": "便宜的方案就不能用嗎？", "acceptedAnswer": {"@type": "Answer", "text": "看用途。問題明確、範圍單純，例如下週要見一位客戶、需要一次搭配建議，按時計費的單次諮詢就是正確答案。當需求延伸到跨平台、跨場合、要長期沿用時，單次服務的範圍通常就不夠了。"}},
-      {"@type": "Question", "name": "為什麼顧問的時間只佔整個專案一小部分？", "acceptedAnswer": {"@type": "Answer", "text": "因為執行之前要先理解你的職業角色、受眾、下一階段與影像用途，這些釐清後服裝輪廓、妝髮強度與場景選擇才有依據；執行之後還有選片、整理與不同版位的使用建議。顧問在你面前的那段時間，只是整條流程裡的一段。"}},
+      {"@type": "Question", "name": "預算較低的方案也能用嗎？", "acceptedAnswer": {"@type": "Answer", "text": "可以，重點是用途。問題明確、範圍單純，例如下週要見一位客戶、需要一次搭配建議，按時計費的單次諮詢就是正確答案。當需求延伸到跨平台、跨場合、要長期沿用時，就要確認單次服務的範圍夠不夠支撐後續。"}},
+      {"@type": "Question", "name": "為什麼實際諮詢或執行的時間，只是整個專案的一部分？", "acceptedAnswer": {"@type": "Answer", "text": "因為你實際參與的諮詢、採購或拍攝，只是完整流程的一部分。執行之前要先理解你的職業角色、受眾、下一階段與影像用途，這些釐清後，服裝輪廓、妝髮強度與場景選擇才有依據；執行之後還有選片、整理與不同版位的使用建議。比較報價時，不只要看面對面服務幾個小時，也要確認前後包含哪些準備、判斷與交付。"}},
       {"@type": "Question", "name": "怎麼判斷自己該花多少？", "acceptedAnswer": {"@type": "Answer", "text": "回到這次要解決的是眼前的場合，還是接下來的角色。放履歷或應付單一場合的需求，不必付整合型服務的價格；正在建立長期公開角色時，這筆成本會分攤到之後每一次曝光上。"}}
     ]
   }

diff --git a/journal/image-consultant-vs-stylist.html b/journal/image-consultant-vs-stylist.html
@@ -105,6 +105,7 @@
           <li><strong>形象顧問</strong>：負責「決定方向」。在拍之前先釐清：你是誰、想被誰看見、想用什麼身分出現、想傳達什麼訊號。他解決的是「這一切，到底要往哪裡走」。</li>
         </ul>
         <p>換個比喻：攝影師是把畫面拍清楚的人，造型師是把細節做到位的人，而形象顧問是先決定「要拍的是哪一齣」的人。三者都專業，而方向不清楚的時候，先做定位會省掉後面很多來回。</p>
+        <p>要先說明的是，這樣的順序是 CHUN.EN 在一個拍攝專案裡的合作方式，不是產業通則。這幾個職稱在市場上的使用高度重疊，同一位專業工作者也可能同時處理方向與製作，實際範圍還是要看各家怎麼定義服務。</p>
 
         <h2>多數人為什麼都<em>先找攝影師</em></h2>
         <p>多數人的第一個念頭是「找個攝影師」。這很自然，照片是看得見的產出，攝影是最具體的一步。但問題在於：當定位還沒想清楚，最厲害的攝影師，也只能把還沒想清楚定位的你拍得很清晰。</p>
